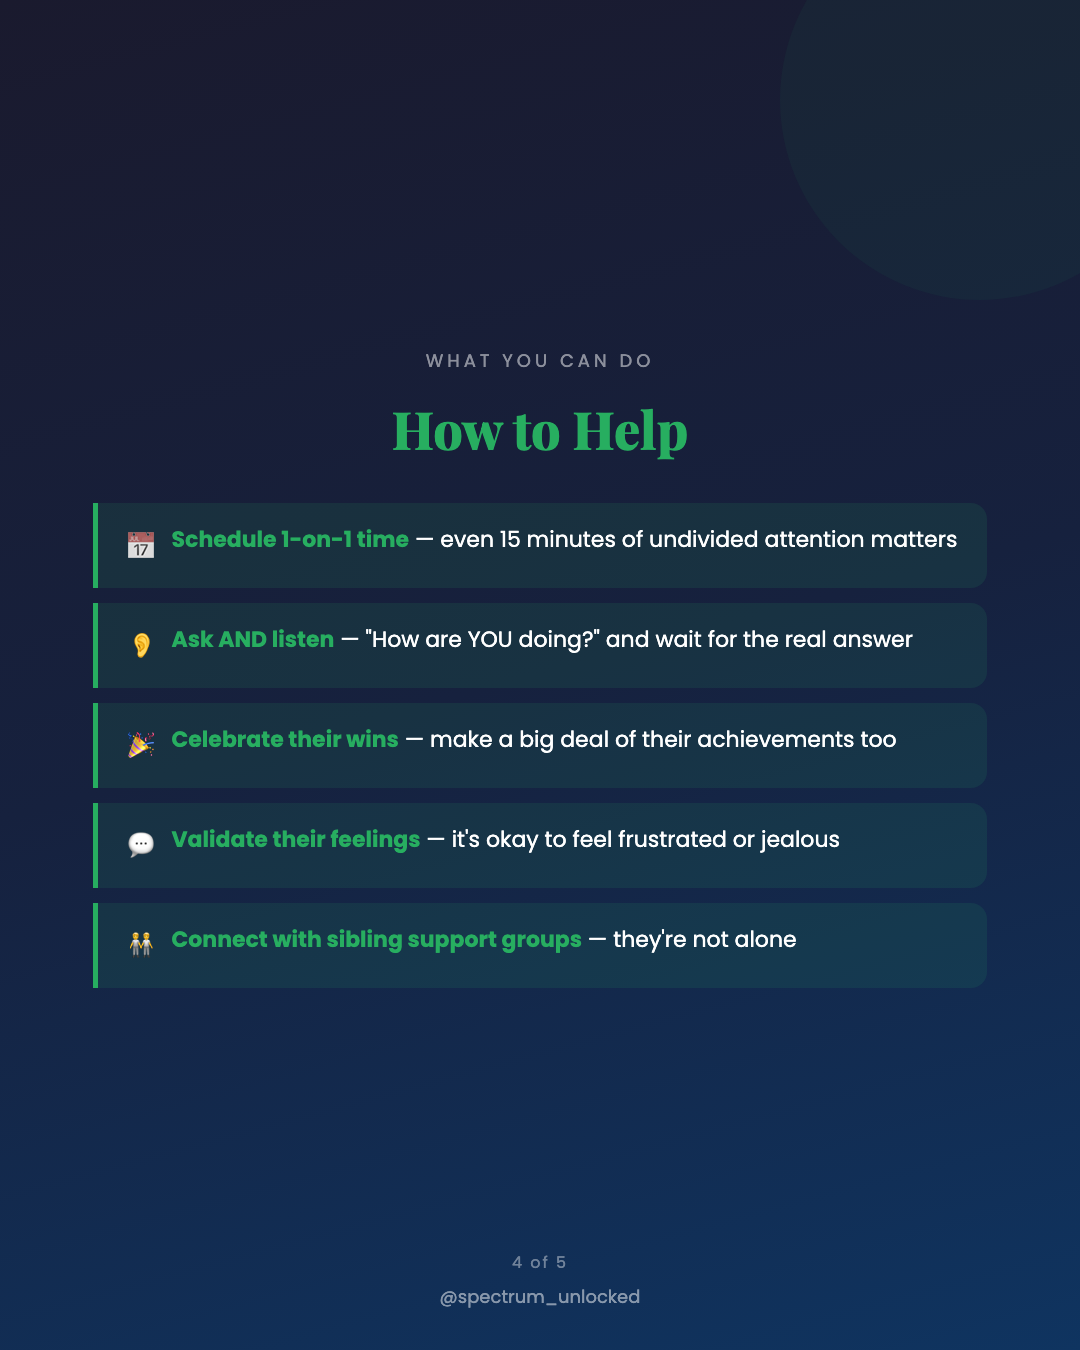
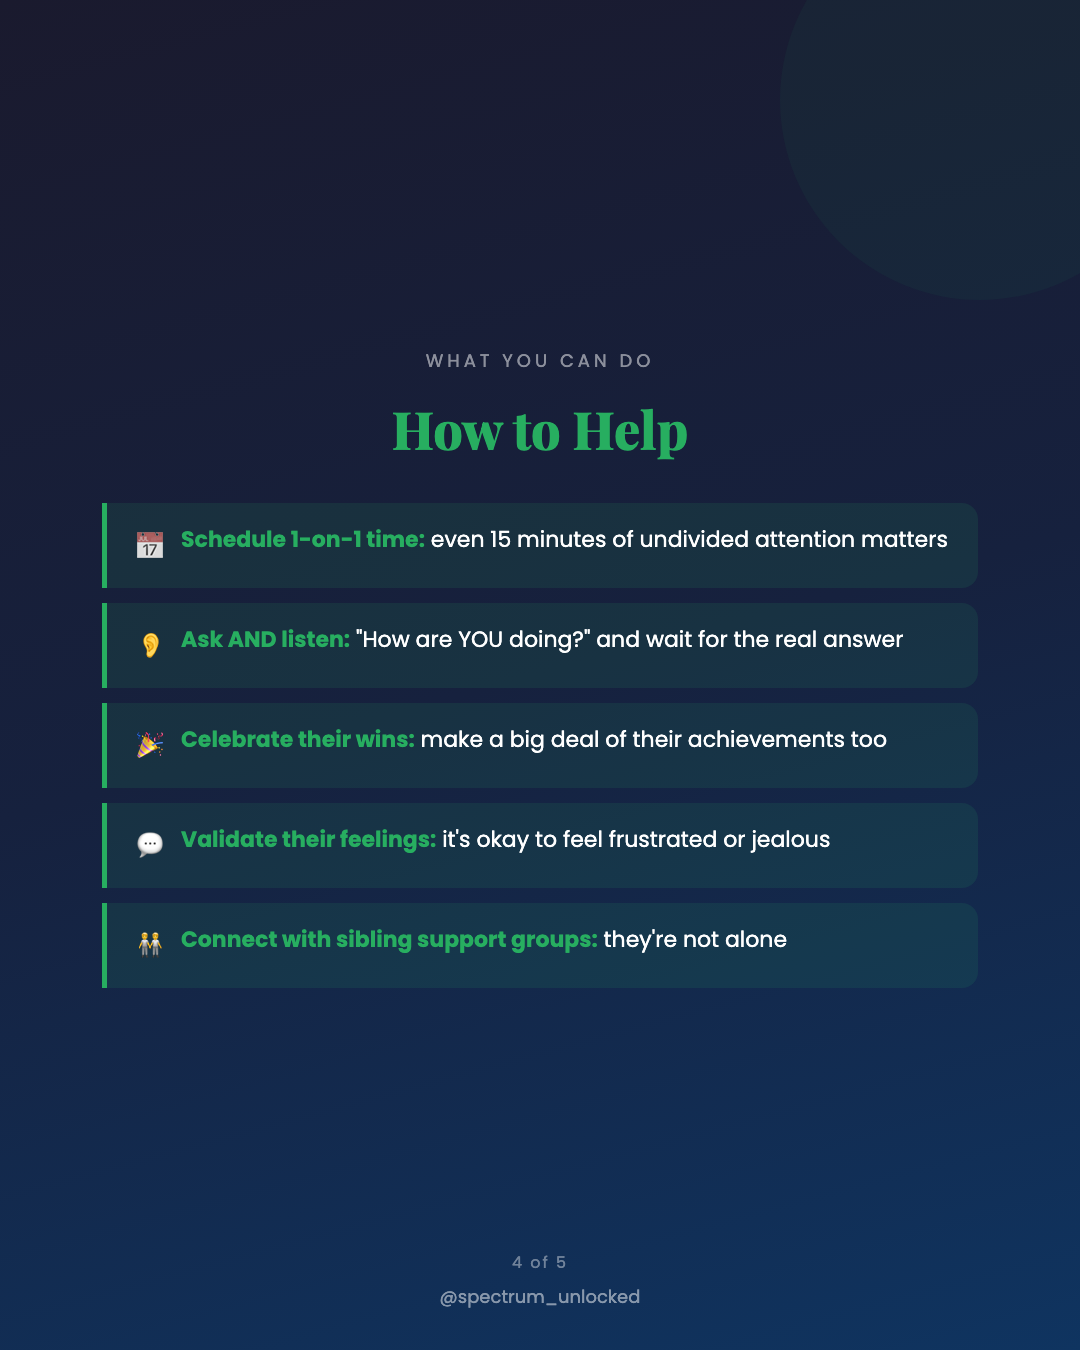
Fix: remove em dashes from glass child slides 5 & 6

diff --git a/content/day-03-glass-child/slide-05-help.html b/content/day-03-glass-child/slide-05-help.html
@@ -60,23 +60,23 @@
   <div class="tips">
     <div class="tip-item">
       <span class="icon">📅</span>
-      <span class="text"><strong>Schedule 1-on-1 time</strong> — even 15 minutes of undivided attention matters</span>
+      <span class="text"><strong>Schedule 1-on-1 time:</strong> even 15 minutes of undivided attention matters</span>
     </div>
     <div class="tip-item">
       <span class="icon">👂</span>
-      <span class="text"><strong>Ask AND listen</strong> — "How are YOU doing?" and wait for the real answer</span>
+      <span class="text"><strong>Ask AND listen:</strong> "How are YOU doing?" and wait for the real answer</span>
     </div>
     <div class="tip-item">
       <span class="icon">🎉</span>
-      <span class="text"><strong>Celebrate their wins</strong> — make a big deal of their achievements too</span>
+      <span class="text"><strong>Celebrate their wins:</strong> make a big deal of their achievements too</span>
     </div>
     <div class="tip-item">
       <span class="icon">💬</span>
-      <span class="text"><strong>Validate their feelings</strong> — it's okay to feel frustrated or jealous</span>
+      <span class="text"><strong>Validate their feelings:</strong> it's okay to feel frustrated or jealous</span>
     </div>
     <div class="tip-item">
       <span class="icon">🧑🤝🧑</span>
-      <span class="text"><strong>Connect with sibling support groups</strong> — they're not alone</span>
+      <span class="text"><strong>Connect with sibling support groups:</strong> they're not alone</span>
     </div>
   </div>
   

diff --git a/content/day-03-glass-child/slide-06-cta.html b/content/day-03-glass-child/slide-06-cta.html
@@ -72,7 +72,7 @@
   
   <div class="message-box">
     <div class="message">
-      "You can't pour from an empty cup — but you also can't forget the cups that seem full are still waiting to be filled."
+      "You can't pour from an empty cup, but you also can't forget the cups that seem full are still waiting to be filled."
     </div>
   </div>
   
